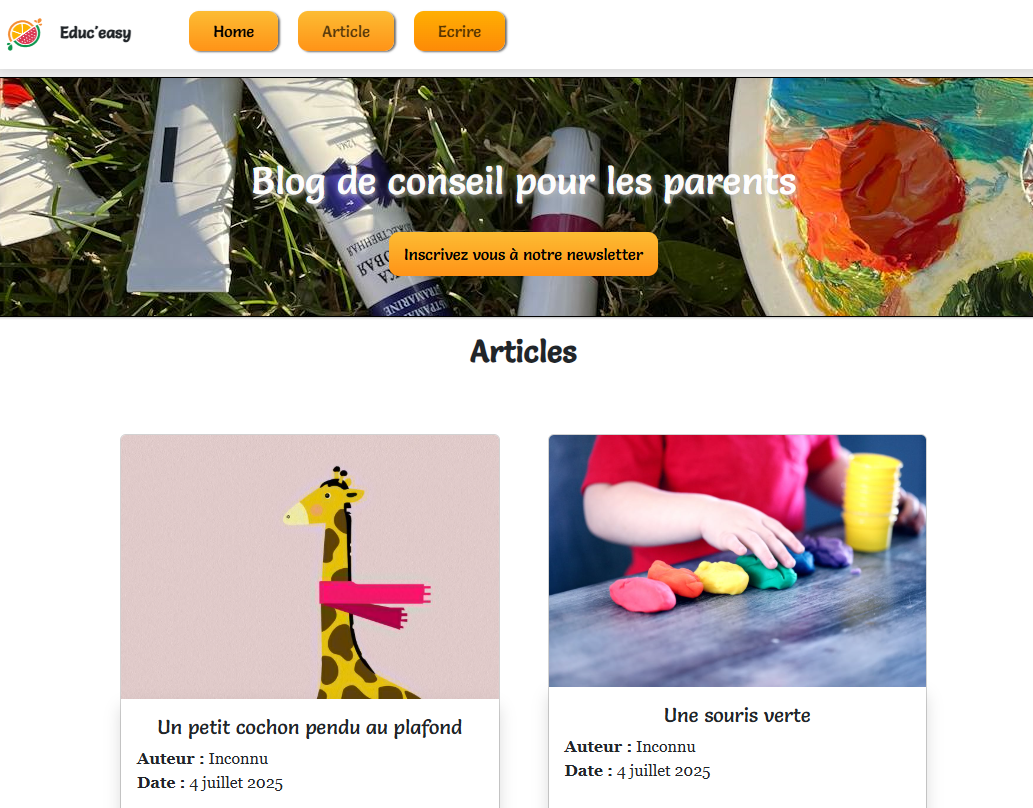
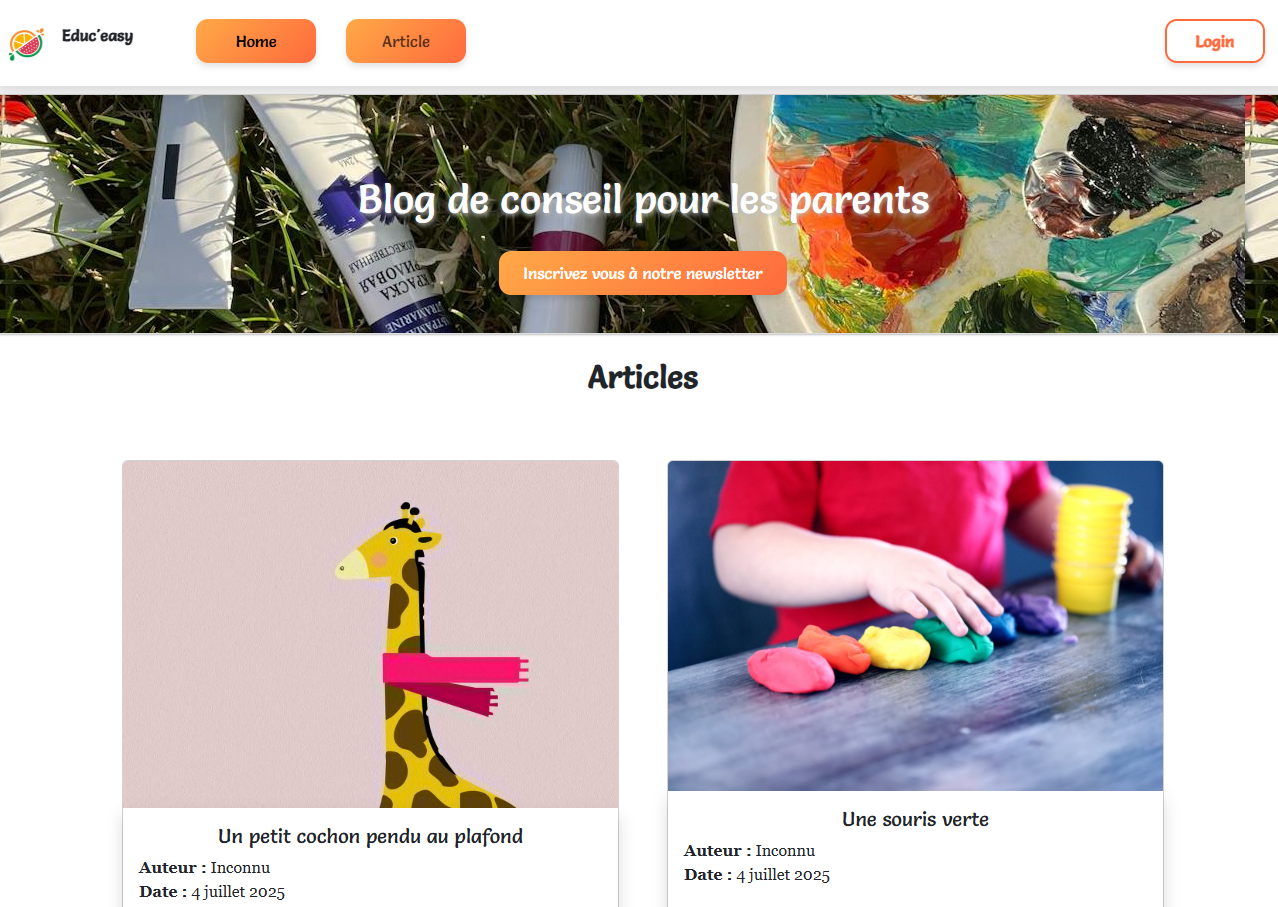
change project

diff --git a/index.html b/index.html
@@ -110,6 +110,9 @@
               <div class="carousel-item">
                 <img src="assets\img\projet2_2.png" class="d-block w-100" alt="Photo projet2_2">
               </div>
+              <div class="carousel-item">
+                <img src="assets\img\projet2_3.png" class="d-block w-100" alt="Projet 1_3">
+              </div>
             </div>
             <button class="carousel-control-prev" type="button" data-bs-target="#carouselProjet2" data-bs-slide="prev">
               <span class="carousel-control-prev-icon btn-purple"></span>
@@ -126,7 +129,8 @@
          <ul class="list-unstyled small mb-3">
         <li>📰 Derniers articles en page d’accueil</li>
         <li>🔍 Recherche & filtres par catégorie</li>
-        <li>✍ Formulaire de création d’article</li>
+        <li>📱 Inscription et connexion fonctionnels</li>
+        <li>✍ Création d’article pour les utilisateurs</li>
         <li>📬 Newsletter avec popup</li>
         <li>💾 Stockage d’articles en base de données</li>
       </ul>
